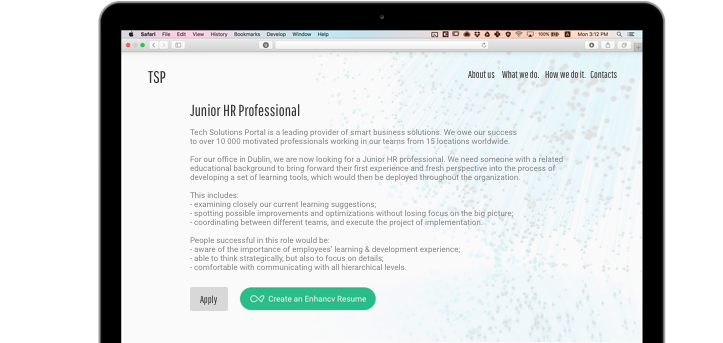
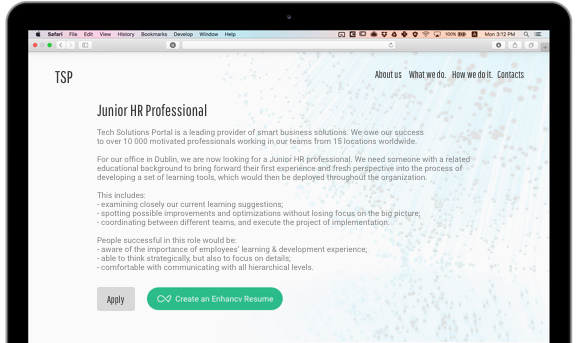
fix image dimentions, add copy to clipboard, add dark mode to preview, change lib path

diff --git a/src/pages/widget.html b/src/pages/widget.html
@@ -163,7 +163,7 @@ description: "Our mission is to help talented people unleash their full potentia
                 <div id="copy-code-wrapper" class="hidden">
                     <h2>Code</h2>
                     <textarea class="widget-code" id="widget-code" readonly="readonly"></textarea>
-                    <button class="btn btn-default pull-right">
+                    <button class="btn btn-default pull-right" data-copy-from="#widget-code">
                         Copy Code
                     </button>
                 </div>
@@ -178,4 +178,4 @@ description: "Our mission is to help talented people unleash their full potentia
 // default preview
 !function(e,n){"undefined"==typeof e[n]&&(e[n]={}),e[n]={type:"standard",wording:"resume",style:"light",element:"#enhancv-widget"}}(window,"ENHANCV_WIDGET_OPTIONS");
 </script>
-<script src="https://enhancv.com/widgets/index.js"></script>
+<script src="https://enhancv.com/widgets/button.js"></script>

diff --git a/src/assets/js/widget.js b/src/assets/js/widget.js
@@ -30,8 +30,15 @@ window.addEventListener('load', function () {
 
         $('#widget-code').val(
             '<script>!function(e,n){"undefined"==typeof e[n]&&(e[n]={}),e[n]=' + JSON.stringify(finalJSON) + '}(window,"ENHANCV_WIDGET_OPTIONS");<\/script>' + 
-            '<div id="enhancv-widget"></div><script src="https://enhancv.com/widgets/index.js"></script>'
+            '<div id="enhancv-widget"></div><script src="https://enhancv.com/widgets/button.js"></script>'
         );
+
+        if (finalJSON.style === 'dark') {
+            $('.widget-preview-container').addClass('dark');
+        } else {
+            $('.widget-preview-container').removeClass('dark');
+        }
+
         $('#copy-code-wrapper').removeClass('hidden');
     });
 });

diff --git a/src/assets/scss/pages/widget.scss b/src/assets/scss/pages/widget.scss
@@ -24,8 +24,12 @@
     width: 100%;
     padding: 50px 40px;
     text-align: center;
-    background: $gray-lighter;
     border-radius: $border-radius-large;
+    background: $gray-lighter;
+
+    &.dark {
+        background: $dark-color;
+    }
 }
 
 .widget-generate, .widget-custom-text {

diff --git a/src/assets/js/copy-to-clipboard.js b/src/assets/js/copy-to-clipboard.js
@@ -1,0 +1,8 @@
+$(document).on('click', '[data-copy-from]', function () {
+	var copyTextarea = $($(this).data('copy-from'))[0];
+  	copyTextarea.select();
+
+  	try {
+	    document.execCommand('copy');
+  	} catch (err) {}
+});

diff --git a/src/assets/scss/_variables.scss b/src/assets/scss/_variables.scss
@@ -30,6 +30,8 @@ $twitter-color:         #5E9DD1;
 
 $code-color:			#ECF1FC;
 
+$dark-color: 			#363636;
+
 //== Scaffolding
 //
 //## Settings for some of the most global styles.
